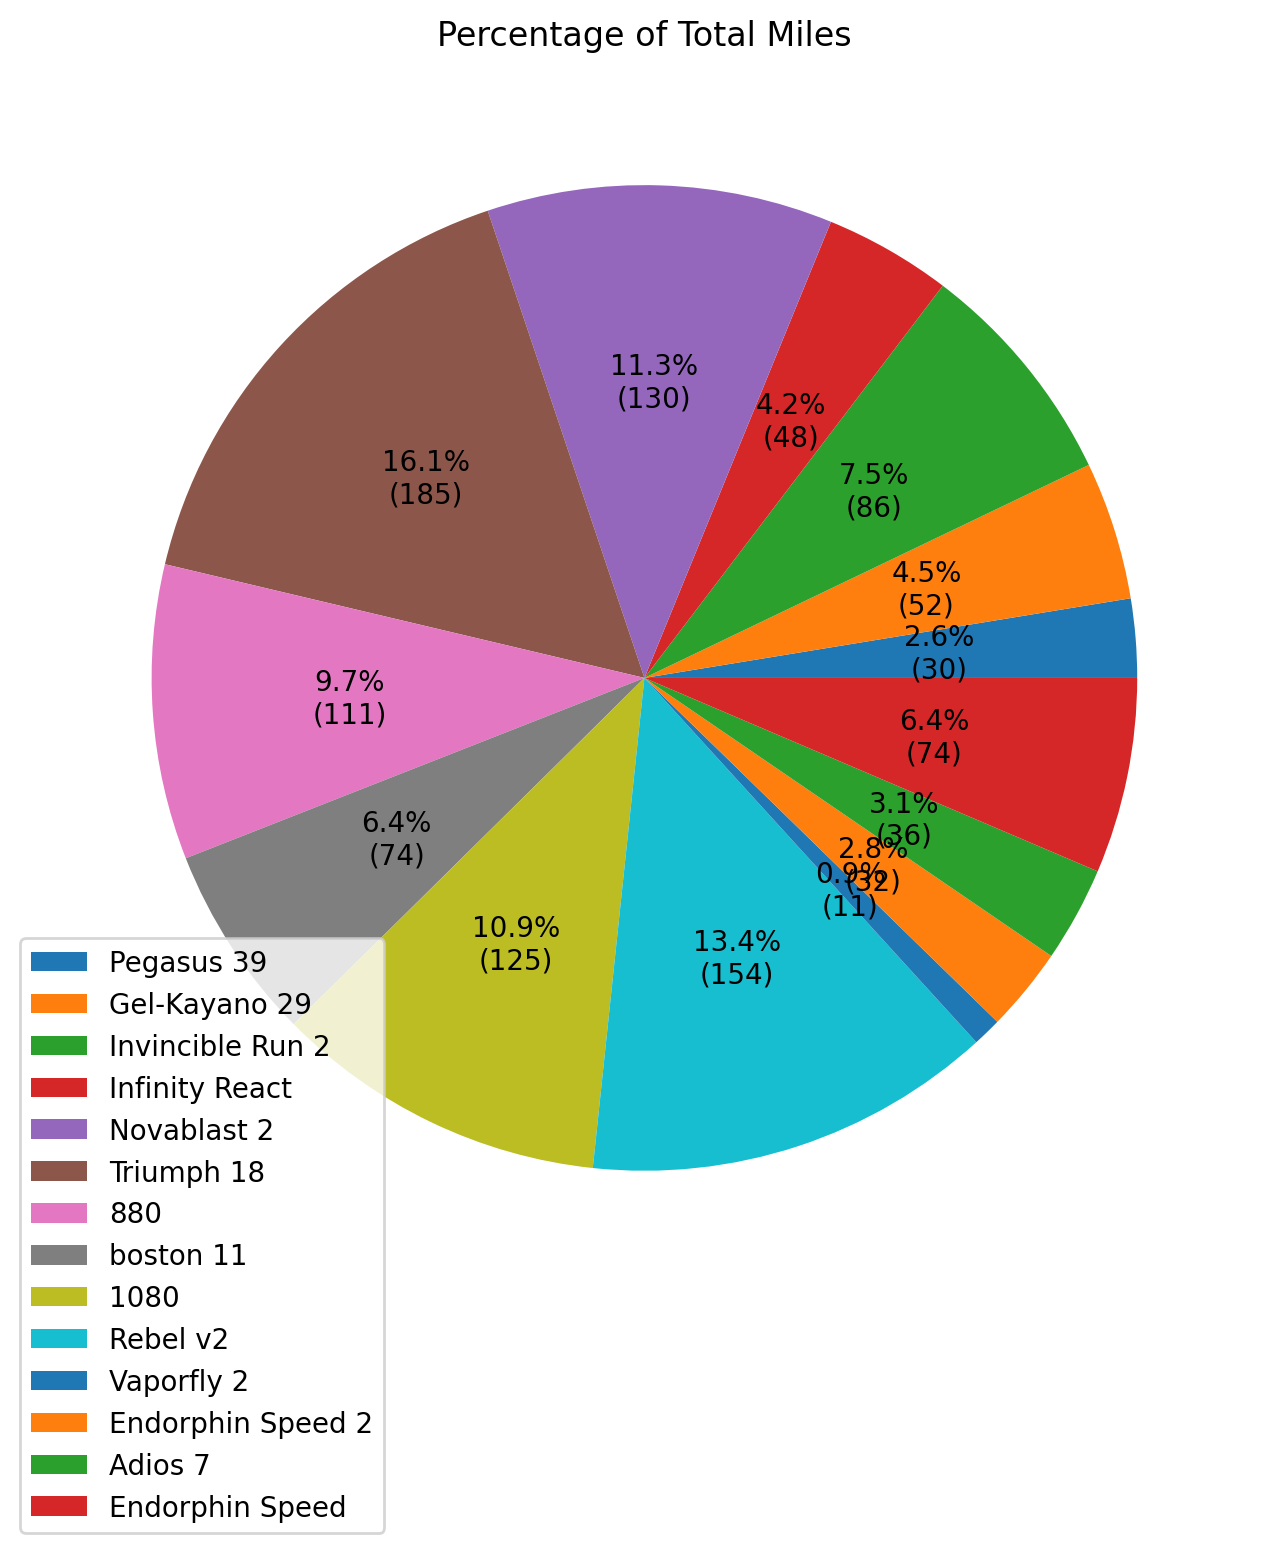
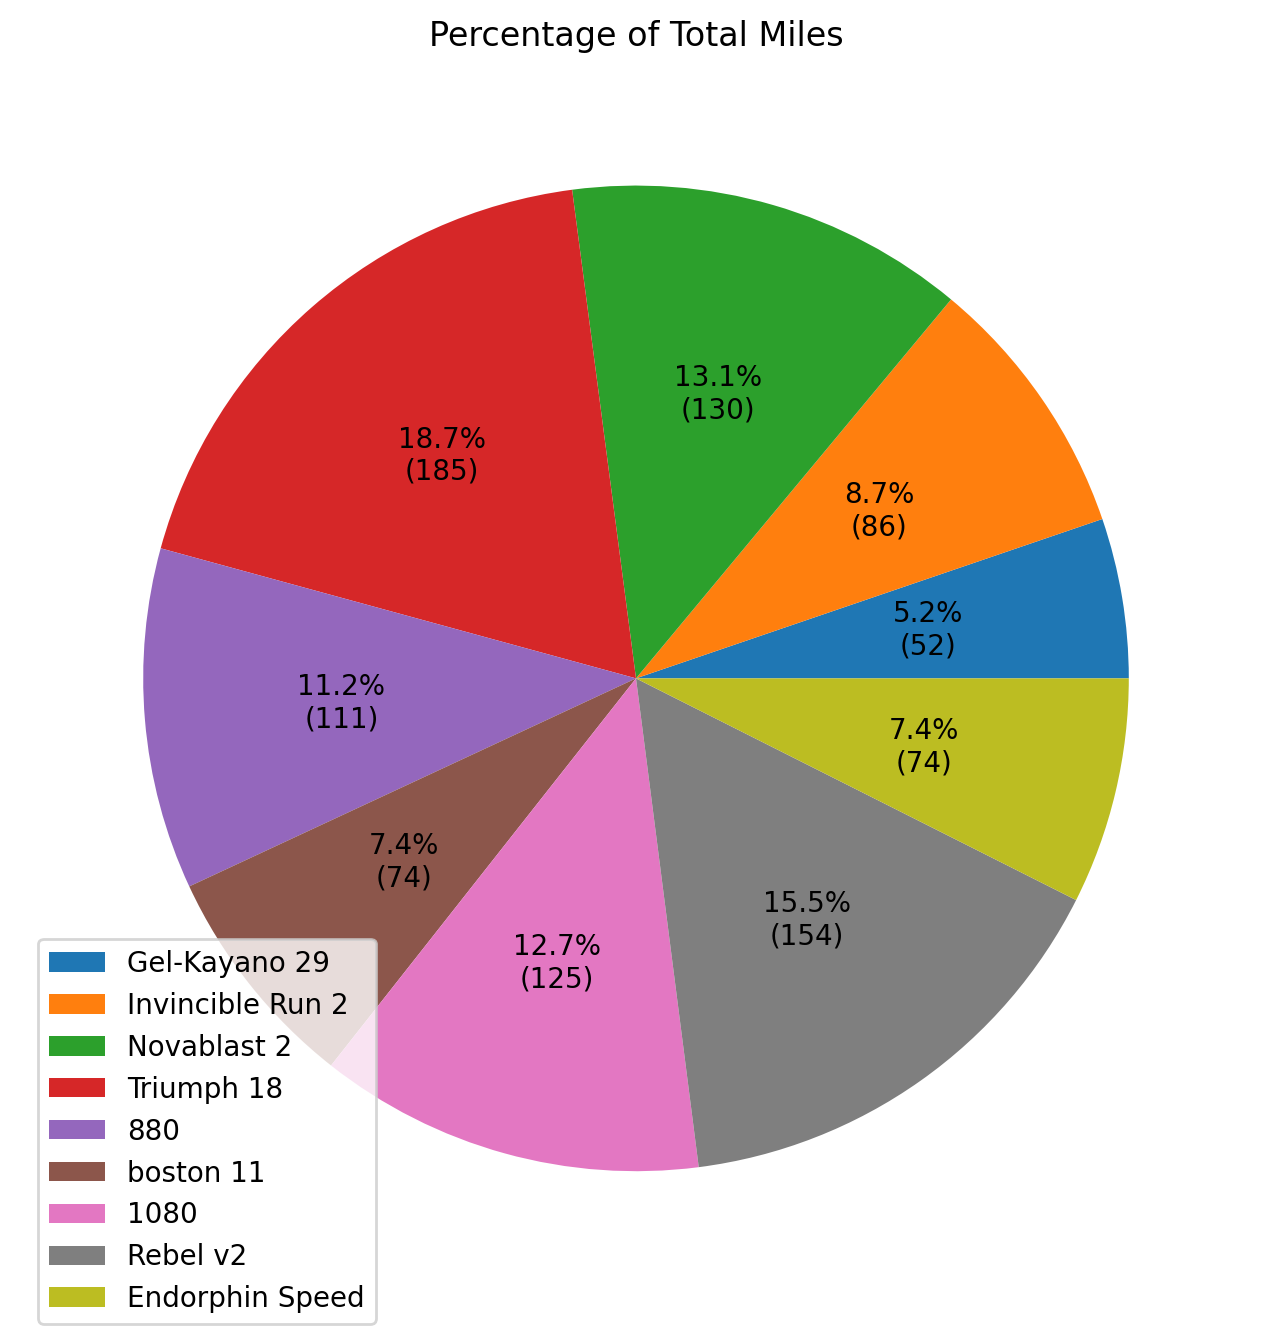
Removed shoes with less than 50 miles from data.

diff --git a/main.py b/main.py
@@ -80,6 +80,8 @@ df2 = df.groupby(['gear_id']).sum().reset_index()
 
 # Create a dictionary for storing the original gear_ids and their new names from the gear endpoint
 shoe_lookup = dict()
+# Create a list to store the gear_ids of shoes with less than 50 miles in distance
+distance_lookup = []
 # Loop through each gear_id in df2, make a GET request to the gear endpoint using the current gear_id,
 # save the name of the gear to the dictionary
 for index, row in df2.iterrows():
@@ -90,10 +92,27 @@ for index, row in df2.iterrows():
     # replaced this with the .replace() method below. will remove later once I am sure what's more efficient.
     # df2.loc[df2['gear_id'] == original_id, 'gear_id'] = model['model_name']
     shoe_lookup[original_id] = model['model_name']
+    # Find shoes with less than 50 miles in distance and save them to a list.
+    if model['converted_distance'] < 50:
+        distance_lookup.append(model['model_name'])
 
 # replace the gear_ids in the two dataframes with the new values saved to the shoe_lookup dictionary
 df['gear_id'] = df['gear_id'].replace(shoe_lookup)
 df2['gear_id'] = df2['gear_id'].replace(shoe_lookup)
+
+# Drop the gear_ids in the distance_look up list from df.
+for index, row in df.iterrows():
+    x = row['gear_id']
+    y = index
+    if x in distance_lookup:
+        df.drop(y, axis=0, inplace=True)
+
+# Drop the gear_ids in the distance_look up list from df2.
+for index, row in df2.iterrows():
+    x = row['gear_id']
+    y = index
+    if x in distance_lookup:
+        df2.drop(y, axis=0, inplace=True)
 
 pd.options.display.float_format = '{:,.2f}'.format
 pd.set_option('display.max_columns', None)
@@ -119,7 +138,7 @@ fig2.tight_layout()
 plt.savefig('avg_speed_scatter_plot.png', bbox_inches='tight', dpi=200)
 
 # Make a pie chart of total runs
-fig3, ax3 = plt.subplots(figsize=(8,8))
+fig3, ax3 = plt.subplots(figsize=(8, 8))
 ax3.pie(df2.total_runs, autopct=autopct_format(df2.total_runs))
 ax3.legend(labels=df2.gear_id, loc='best', bbox_to_anchor=(.3, .3))
 ax3.set_title("Percentage of Total Runs")
@@ -133,7 +152,7 @@ ax4.set_title("Percentage of Total Miles")
 plt.savefig('total_distance_pie_chart.png', bbox_inches='tight', dpi=200)
 
 # Make a bar chart comparing shoes by avg_relative_effort
-fig5, ax5 = plt.subplots(figsize=(8,8))
+fig5, ax5 = plt.subplots(figsize=(8, 8))
 ax5.bar(df2.gear_id, df2.avg_relative_effort)
 ax5.set_title("Average Relative Effort by Shoe")
 ax5.set_ylabel("Average Relative Effort")
@@ -144,7 +163,7 @@ fig5.tight_layout()
 plt.savefig('avg_relative_effort_bar_chart.png', bbox_inches='tight', dpi=200)
 
 # Make a scatter plot comparing shoes by avg_pace
-fig6, ax6 = plt.subplots(figsize=(8,8))
+fig6, ax6 = plt.subplots(figsize=(8, 8))
 ax6.scatter(df2.avg_pace, df2.gear_id)
 ax6.set_title("Average Pace by Shoe")
 ax6.set_xticks(df2.avg_pace, df2.avg_pace_labels, rotation=90)
@@ -156,7 +175,7 @@ fig6.tight_layout()
 plt.savefig('avg_pace_scatter_plot.png', bbox_inches='tight', dpi=200)
 
 # Make a bar chart comparing shoes by avg_heartrate
-fig7, ax7 = plt.subplots(figsize=(8,8))
+fig7, ax7 = plt.subplots(figsize=(8, 8))
 ax7.bar(df2.gear_id, df2.avg_heartrate)
 ax7.set_title("Average Heartrate by Shoe")
 ax7.set_ylabel("Average Heartate")
@@ -166,7 +185,7 @@ fig7.tight_layout()
 plt.savefig('avg_heartrate_bar_chart.png', bbox_inches='tight', dpi=200)
 
 # Make a scatter plot comparing shoes by avg_distance
-fig8, ax8 = plt.subplots(figsize=(8,8))
+fig8, ax8 = plt.subplots(figsize=(8, 8))
 ax8.scatter(df2.avg_distance, df2.gear_id)
 ax8.set_title("Average Distance by Shoe")
 ax8.set_xlabel("Average Distance")

diff --git a/README.md b/README.md
@@ -37,3 +37,16 @@ curl --request POST \
 ````
 
 - Your refresh token will be in the response as `"refresh_token"`
+
+## Image Examples 
+
+![](avg_distance_scatter_plot.png)
+![](avg_heartrate_bar_chart.png)
+![](avg_pace_scatter_plot.png)
+![](avg_relative_effort_bar_chart.png)
+![](avg_speed_scatter_plot.png)
+![](relative_effort_box_plot.png)
+![](distance_box_plot.png)
+![](total_distance_pie_chart.png)
+![](total_runs_pie_chart.png)
+
